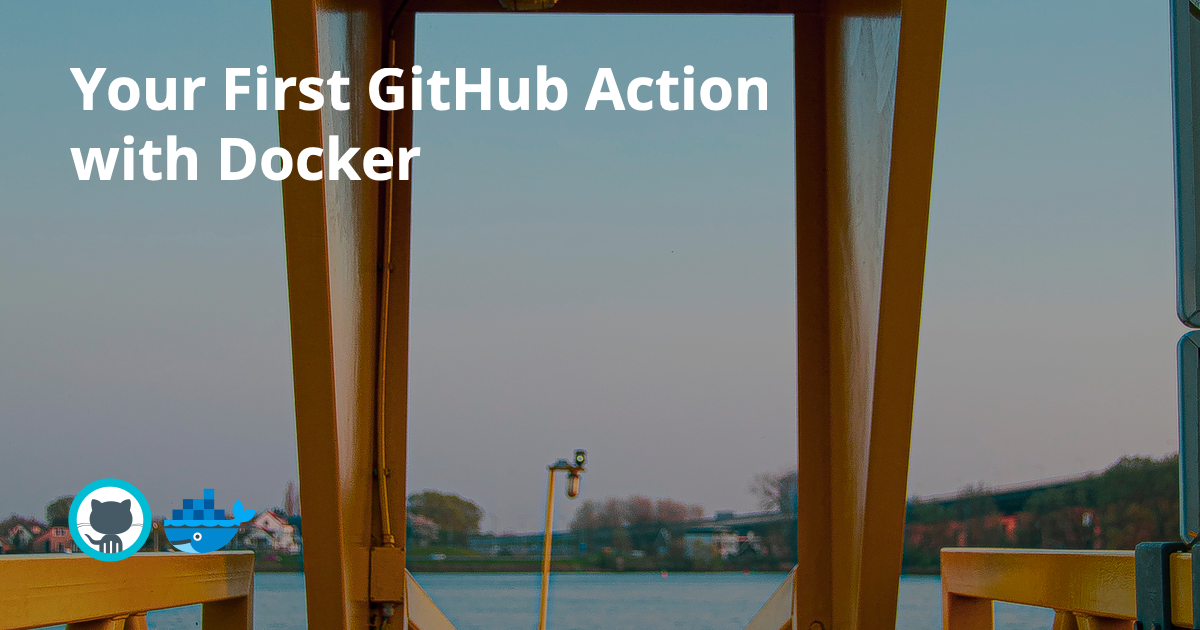
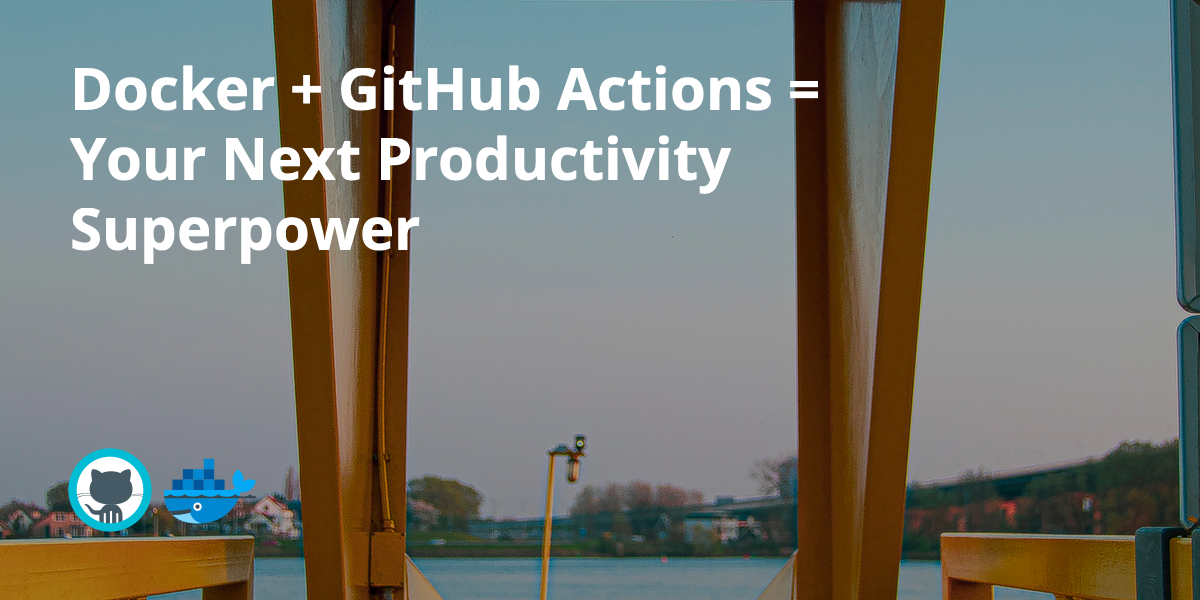
feat: Attempting to add Grammarly

diff --git a/bin/grammar.js b/bin/grammar.js
@@ -1,0 +1,84 @@
+// @see https://github.com/stewartmcgown/grammarly-api
+const { Grammarly } = require("@stewartmcgown/grammarly-api")
+const chalk = require("chalk")
+const argv = require("yargs-parser")(process.argv.slice(2))
+const fs = require("fs")
+var showdown = require("showdown")
+const htmlToText = require("html-to-text")
+
+const example = `When we have shuffled off this mortal coil,
+Must give us pause - their's the respect
+That makes calamity of so long life.`
+
+const warning = text => chalk.yellow(chalk.bold(text))
+const error = text => chalk.bgRed(chalk.bold(text))
+
+const highlightAlerts = (text, alerts) => {
+  alerts.map((alert, index) => {
+    const {
+      highlightBegin,
+      highlightEnd,
+      categoryHuman,
+      title,
+      minicardTitle,
+    } = alert
+    const beginSliceIndex = highlightBegin - 20 > 0 ? highlightBegin - 20 : 0
+    const endSliceIndex =
+      highlightEnd + 20 < text.length ? highlightEnd + 20 : text.length
+
+    const preSlice = text.slice(beginSliceIndex, highlightBegin)
+    const postSlice = text.slice(highlightEnd, endSliceIndex)
+    const slice = text.slice(highlightBegin, highlightEnd)
+    const hasTitle = title || minicardTitle
+
+    const log = `
+${error(
+  `ALERT ${index + 1}: ${categoryHuman}`
+)} (${highlightBegin}:${highlightEnd})
+${hasTitle ? warning("[ACTION]:") : ""} ${title ? title : ""} ${
+      minicardTitle ? minicardTitle : ""
+    }
+
+...${preSlice}${chalk.red(slice)}${postSlice}...
+    `
+    console.log(log)
+  })
+}
+
+// const alerts = [
+//   {
+//     title: "Possibly confused <i>there</i> and <i>their</i>",
+//     minicardTitle: "Replace the word",
+//     highlightBegin: 65,
+//     highlightEnd: 72,
+//     categoryHuman: "Commonly Confused Words",
+//   },
+//   {
+//     categoryHuman: "Incorrect Phrasing",
+//     highlightBegin: 108,
+//     highlightEnd: 110,
+//   },
+// ]
+
+const main = async () => {
+  const [blogPostFilePath] = argv._
+  const blog = fs.readFileSync(blogPostFilePath, "utf-8")
+
+  const converter = new showdown.Converter()
+  const html = converter.makeHtml(blog)
+  const text = htmlToText.fromString(html)
+
+  const free = new Grammarly()
+  const results = await free.analyse(text)
+  console.log(results)
+  highlightAlerts(blog, results.alerts)
+
+  const hasAlerts = results.alerts.length !== 0
+  if (!hasAlerts) {
+    const msg = `No alerts found for file ${blogPostFilePath}`
+    console.log(chalk.green(msg))
+  }
+  process.exit()
+}
+
+main()

diff --git a/bin/upload-to-medium.js b/bin/upload-to-medium.js
@@ -30,6 +30,25 @@ const postArticle = (
     }
   )
 
+/**
+ * Matches markdown code blocks/
+ * @example
+ * ```rb
+ * # Will match this
+ * value = "assignment"
+ * ```
+ *
+ * Won't match this
+ *
+ * ```md
+ * # Will match this
+ * Testing
+ * ```
+ */
+const codeRegex = /^`{3}([a-z]*)\s([.\s\S]+?)`{3}/gm
+
+const 
+
 const BASE_DIR = "content/blog/"
 
 const main = async () => {
@@ -56,13 +75,15 @@ const main = async () => {
 
   try {
     console.log("Attempting to post...", title)
-    // SKIPPING FOR NOW UNTIL I CAN FIND THE AUTHOR ID
-    const { data: mediumRes } = await postArticle(
-      title,
-      blogToUpload,
-      canonicalUrl,
-      tags
-    )
+    
+    
+
+    // const { data: mediumRes } = await postArticle(
+    //   title,
+    //   blogToUpload,
+    //   canonicalUrl,
+    //   tags
+    // )
     console.log("Posted to Medium!", mediumRes.data.url)
   } catch (err) {
     console.log(err)

diff --git a/bin/generate-heading-image.js b/bin/generate-heading-image.js
@@ -16,8 +16,8 @@ const openSans = require("./open-sans")
 
 global.fetch = fetch
 
-const IMG_WIDTH = 1200
-const IMG_HEIGHT = 630
+const IMG_WIDTH = 1000
+const IMG_HEIGHT = 600
 
 const writeImageToDisk = (title, base64Data) =>
   fs.writeFileSync(title, base64Data, "base64")

diff --git a/content/blog/2020-07-09-hello-github-actions.md b/content/blog/2020-07-09-hello-github-actions.md
@@ -1,5 +1,5 @@
 ---
-title: Your First GitHub Action with Docker
+title: Docker + GitHub Actions = Your Next Productivity Superpower
 date: "2020-07-09"
 description: Run through the basics to get your first Docker GitHub Action up and running
 ---
